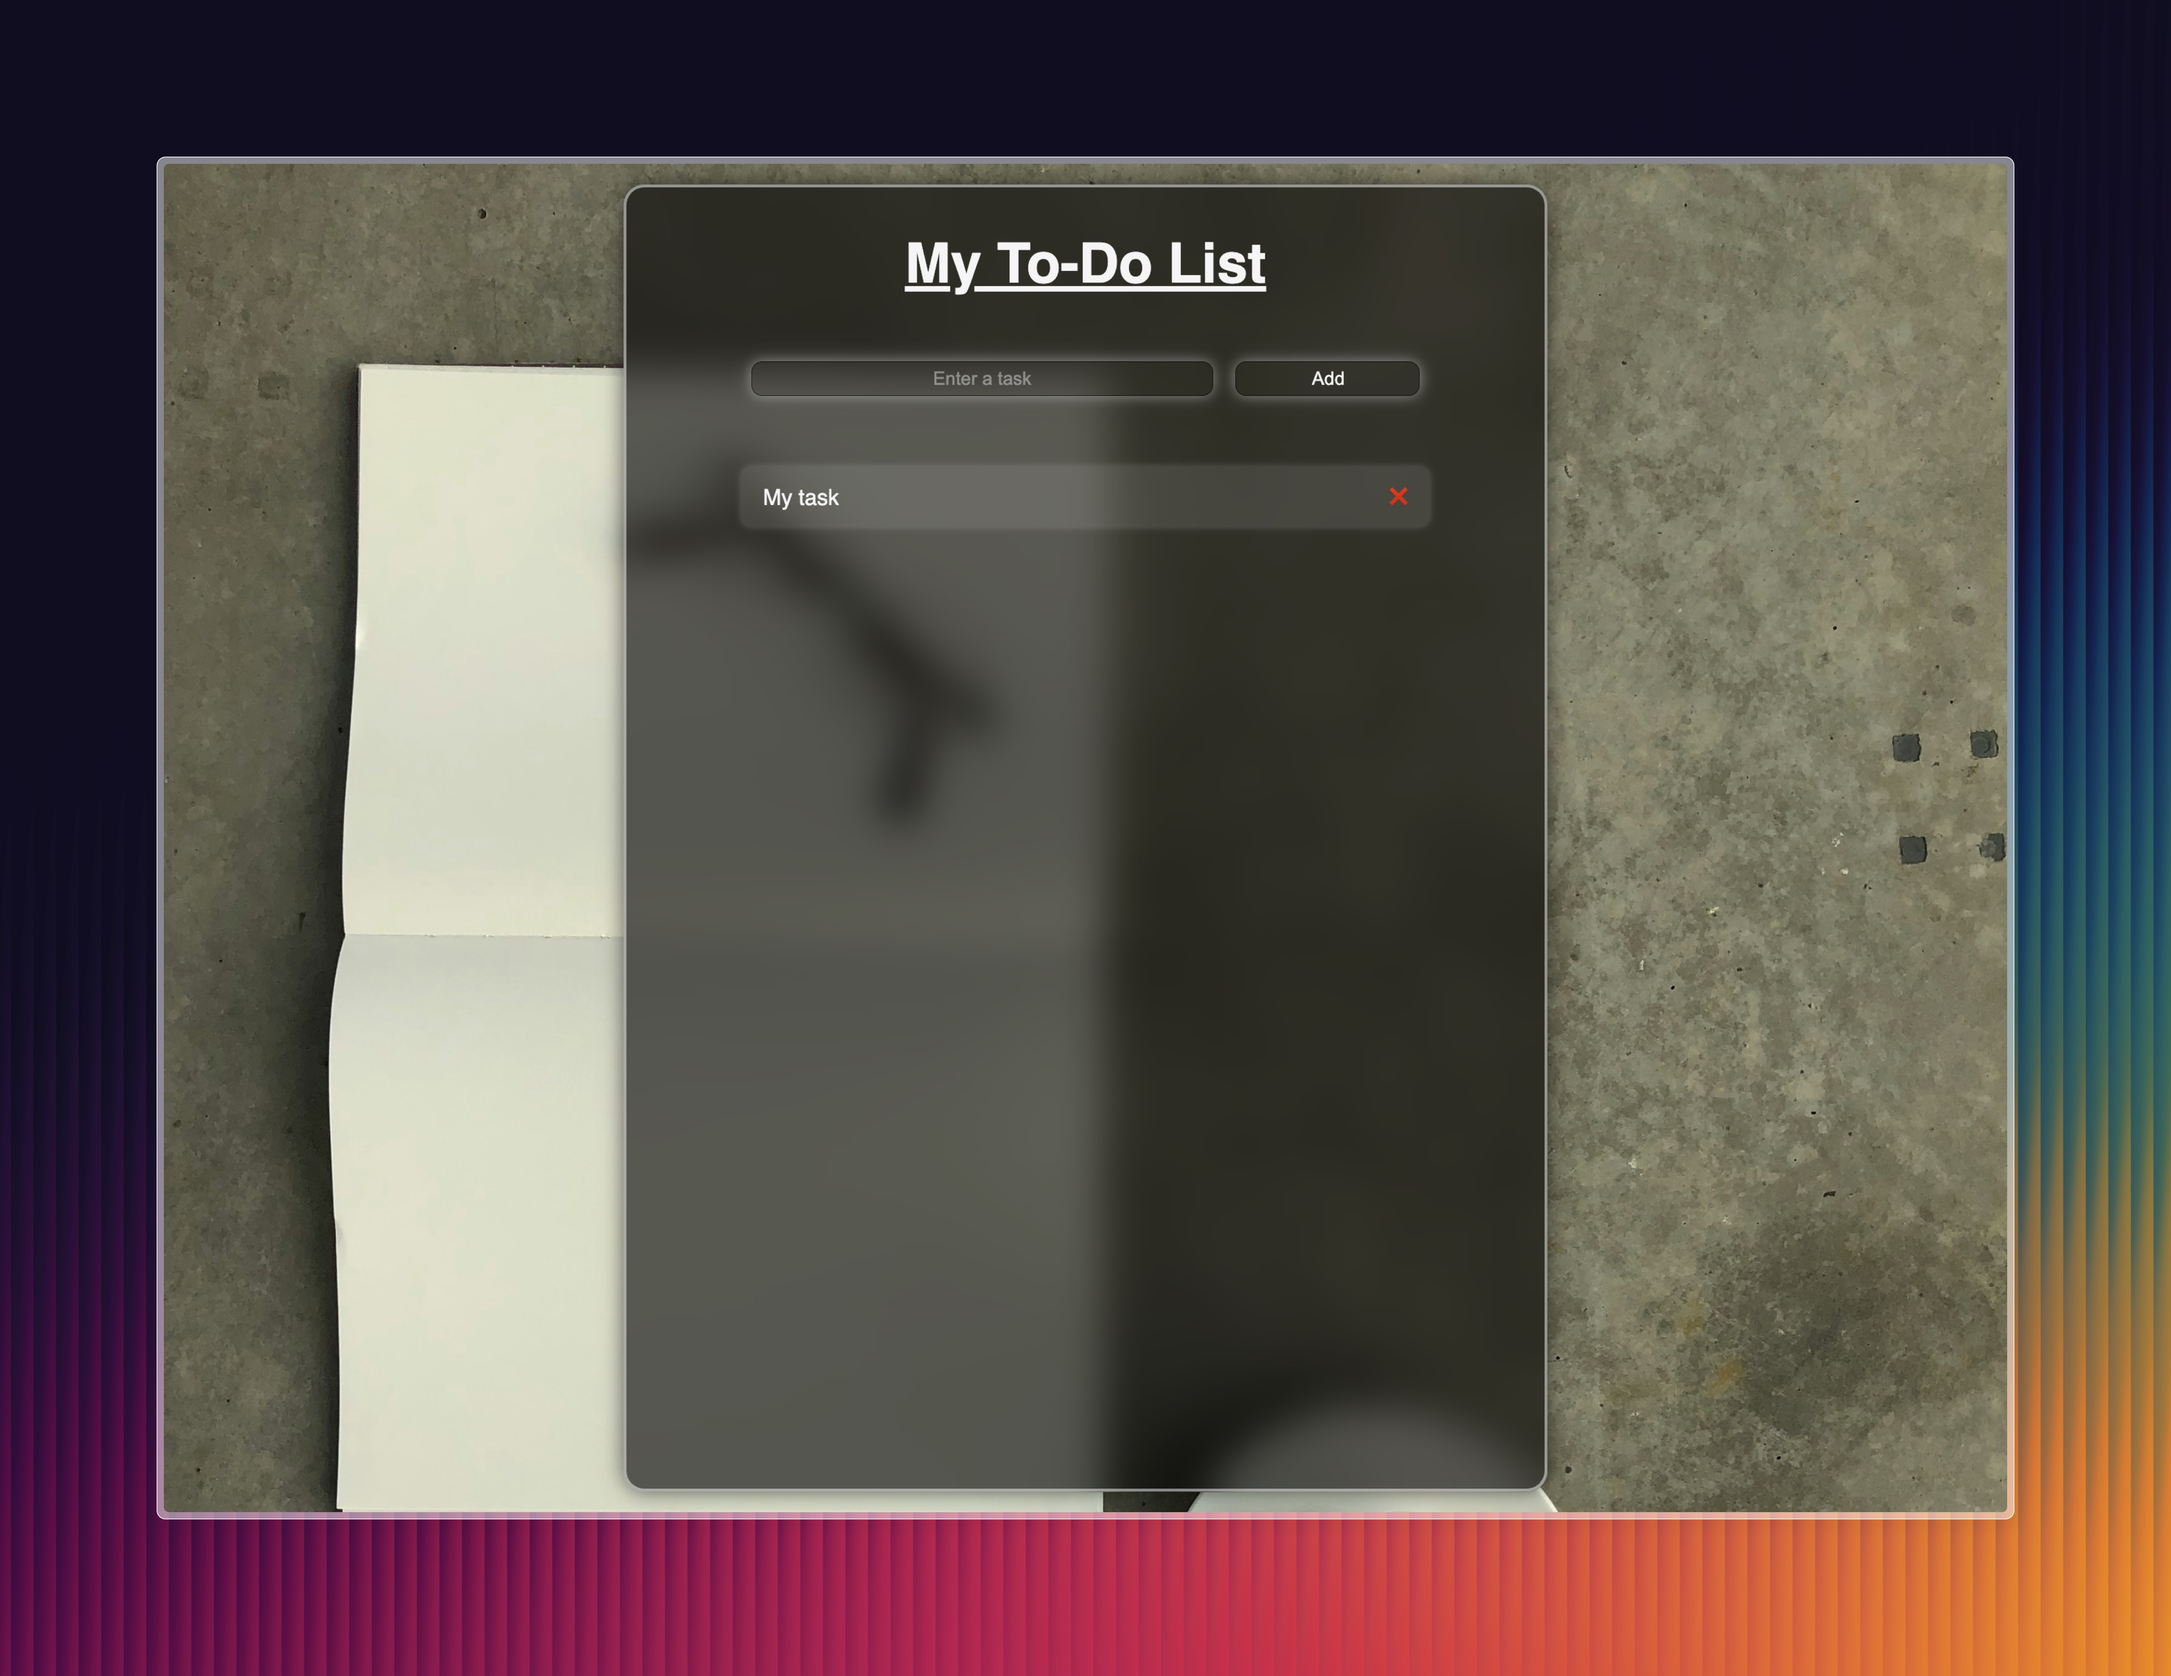
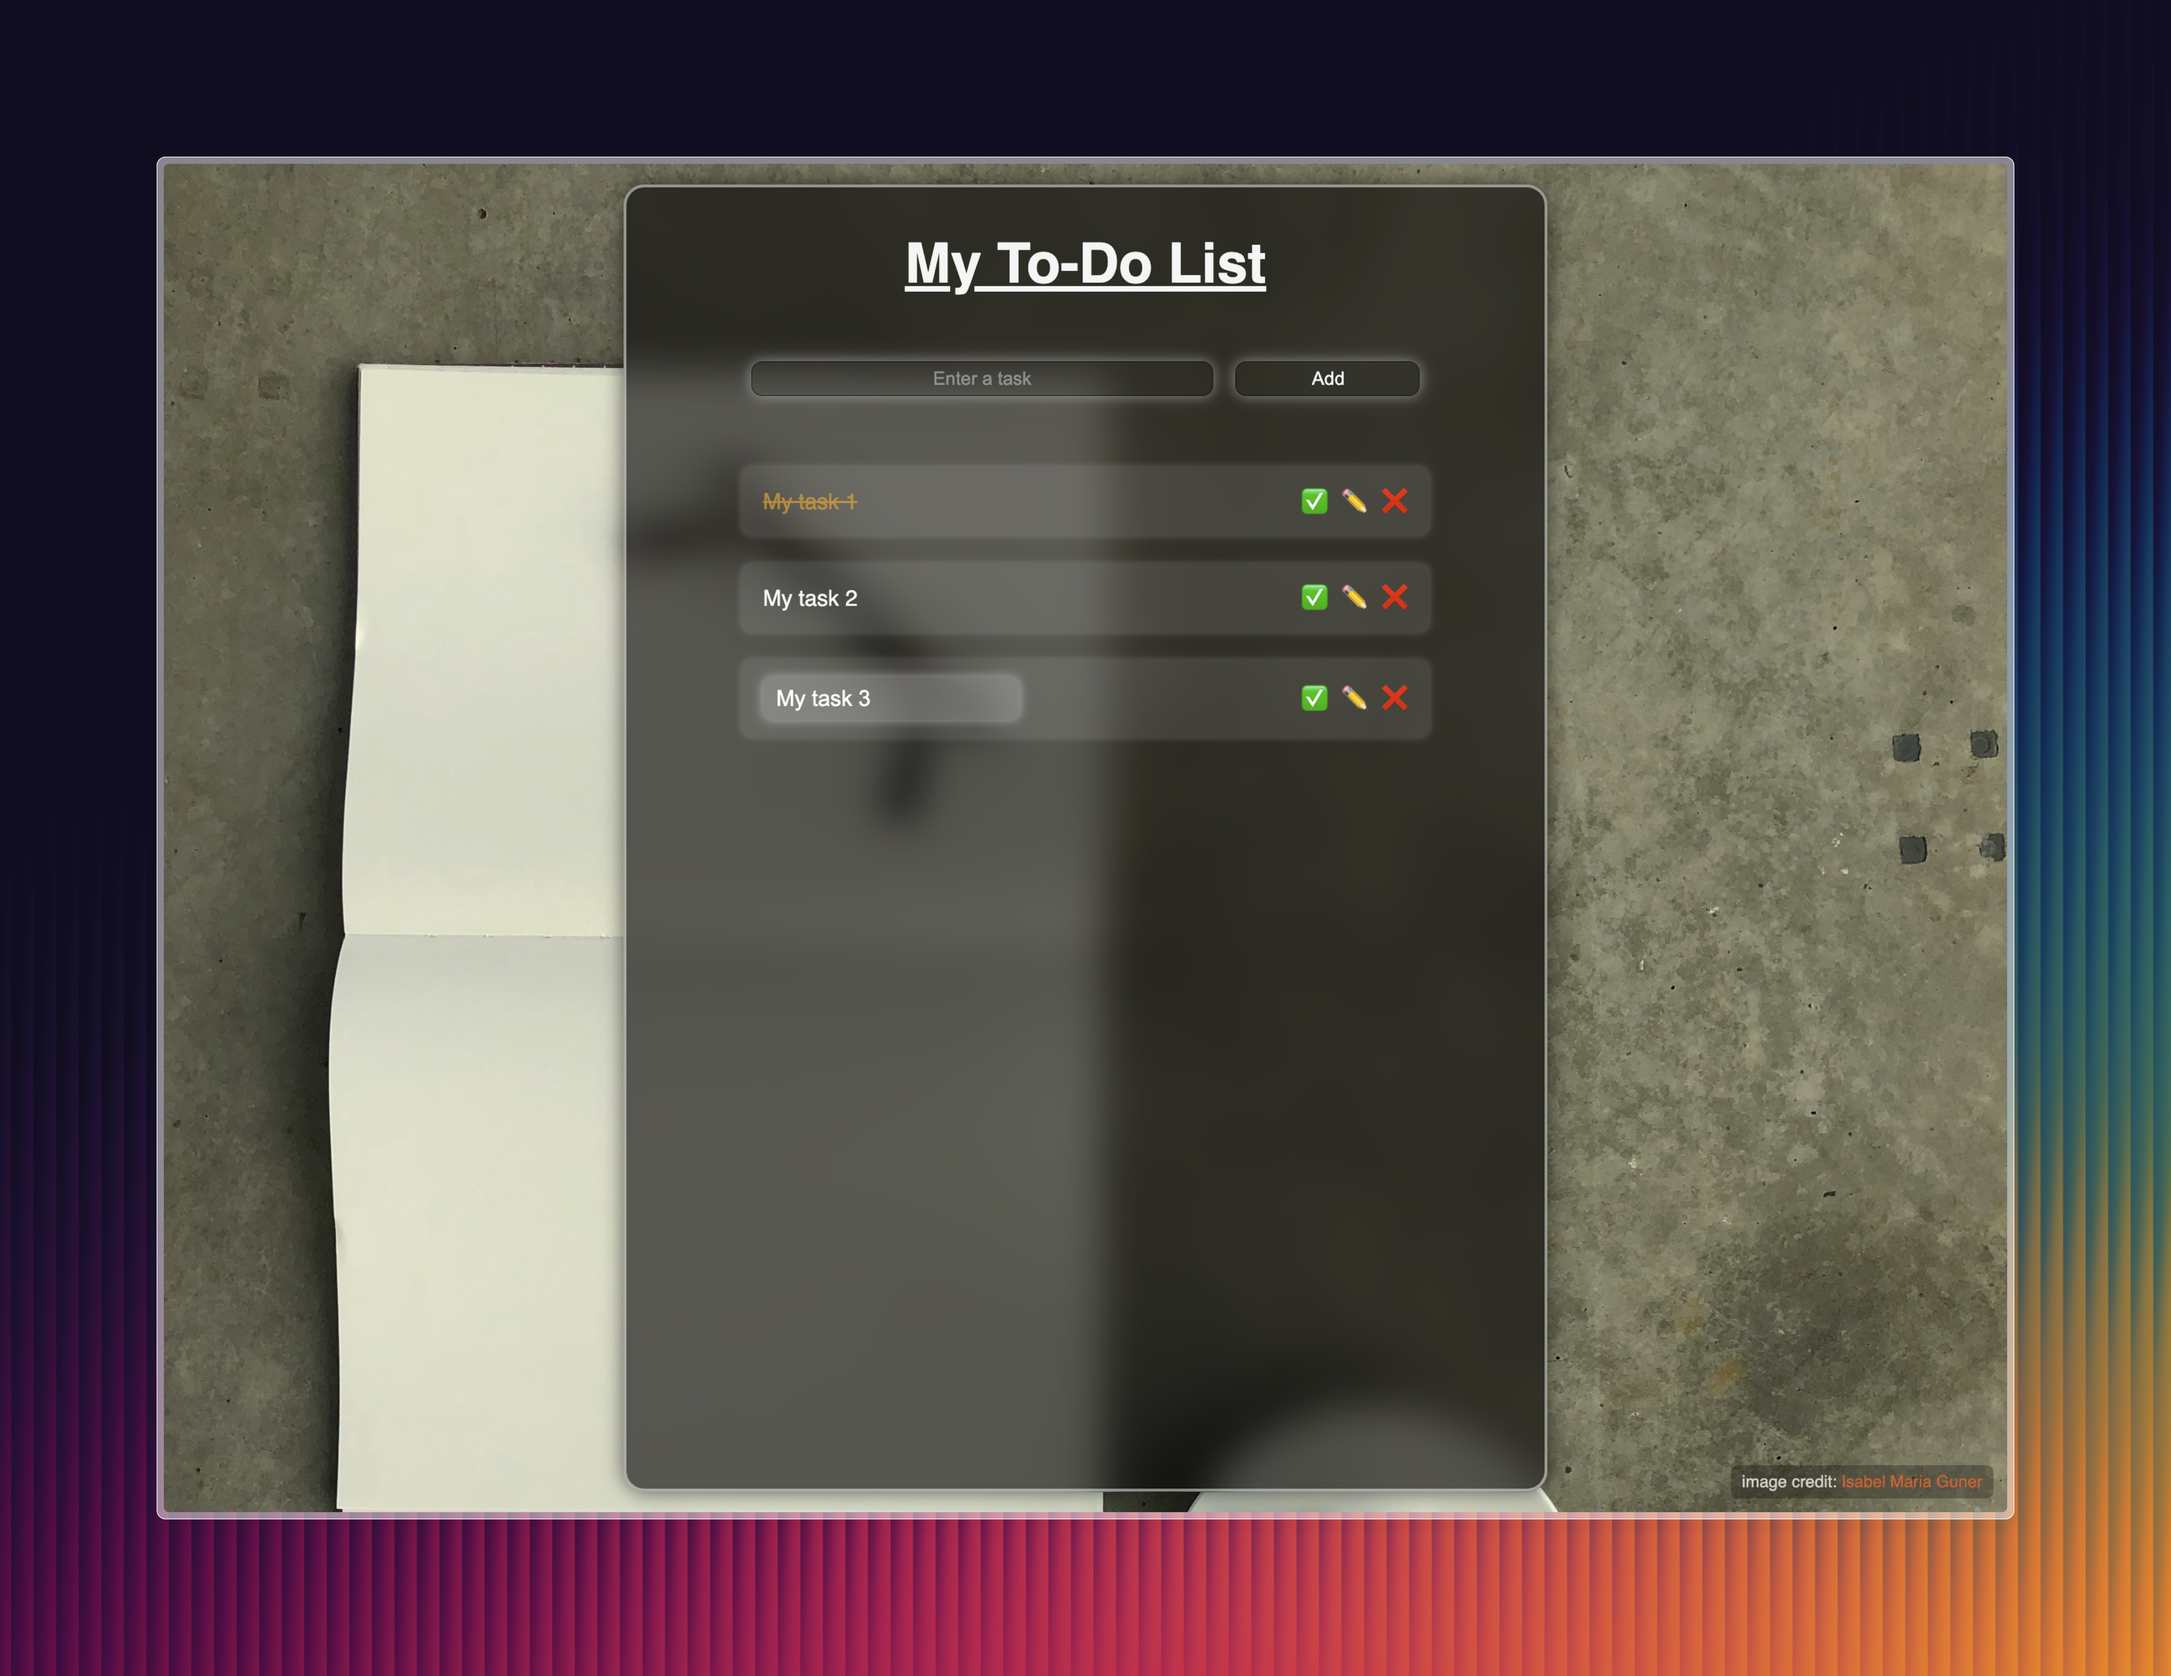
edit and done buttons added. screenshot updated.

diff --git a/main.js b/main.js
@@ -10,41 +10,85 @@ button.addEventListener("click", function () {
   } else {
     const taskItem = document.createElement("div");
     taskItem.classList.add("task-item");
+
+    const taskBtns = document.createElement("div");
+    taskBtns.classList.add("task-buttons");
+
     const taskTextEl = document.createElement("span");
     taskTextEl.textContent = taskText;
     taskItem.appendChild(taskTextEl);
     taskList.appendChild(taskItem);
+    taskItem.appendChild(taskBtns);
     input.value = "";
 
+    // Task item done button
+    const doneBtn = document.createElement("button");
+
+    doneBtn.addEventListener("click", function() {
+      taskTextEl.classList.toggle("completed");
+    });
+
+    doneBtn.classList.add("done-button");
+    doneBtn.textContent = "✅";
+    taskBtns.appendChild(doneBtn);
+
+    // Task item edit button
+    const editBtn = document.createElement("button");
+
+    editBtn.addEventListener("click", function() {
+      const currentText = taskTextEl.textContent;
+      const inputField = document.createElement("input");
+      inputField.type = "text";
+      inputField.value = currentText;
+      inputField.classList.add("edit-input")
+
+      taskItem.replaceChild(inputField, taskTextEl);
+      inputField.focus();
+
+      inputField.addEventListener("blur", function() {
+        taskTextEl.textContent = inputField.value.trim() || currentText;
+        taskItem.replaceChild(taskTextEl, inputField);
+      })
+
+      inputField.addEventListener("keydown", function(event) {
+        if(event.key === "Enter") {
+          inputField.blur()
+        }
+      })
+    });
+
+    editBtn.classList.add("edit-button");
+    editBtn.textContent = "✏";
+    taskBtns.appendChild(editBtn);
+
+    // Task item delete button
     const delBtn = document.createElement("button");
 
     delBtn.addEventListener("click", function () {
-      const taskToDelete = delBtn.parentElement;
-      taskToDelete.remove();
+      taskItem.remove();
     });
 
     delBtn.classList.add("delete-button");
     delBtn.textContent = "❌";
-    taskItem.appendChild(delBtn);
+    taskBtns.appendChild(delBtn);
 
     // Clear stored input after successful task creation
-    sessionStorage.removeItem("taskInputValue")
+    sessionStorage.removeItem("taskInputValue");
   }
 });
 
-input.addEventListener("keydown", function(event) {
-    if(event.key === "Enter") {
-        button.click();
-    }
-})
+input.addEventListener("keydown", function (event) {
+  if (event.key === "Enter") {
+    button.click();
+  }
+});
 
-document.addEventListener("DOMContentLoaded", function() {
-    if (sessionStorage.getItem("taskInputValue")) {
-        input.value = sessionStorage.getItem("taskInputValue");
-    }
+document.addEventListener("DOMContentLoaded", function () {
+  if (sessionStorage.getItem("taskInputValue")) {
+    input.value = sessionStorage.getItem("taskInputValue");
+  }
 
-    input.addEventListener("input", function() {
-        sessionStorage.setItem("taskInputValue", input.value);
-    })
-})
-
+  input.addEventListener("input", function () {
+    sessionStorage.setItem("taskInputValue", input.value);
+  });
+});

diff --git a/style.css b/style.css
@@ -74,11 +74,44 @@ h1 {
   margin-top: 3rem;
 }
 
-.delete-button {
+.task-buttons {
+  display: flex;
+  flex-direction: row;
+  gap: 10px;
+}
+
+.delete-button,
+.done-button,
+.edit-button {
   background-color: transparent;
   border: none;
   cursor: pointer;
+  font-size: 1.2rem;
 }
+
+.completed {
+  text-decoration: line-through;
+  color: orange;
+  opacity: 0.6;
+  transition: all 0.3s ease;
+}
+
+.edit-input {
+  background-color: rgba(255, 255, 255, 0.1);
+  border: none;
+  border-radius: 6px;
+  padding: 0.4rem 0.6rem;
+  color: white;
+  font-size: 1rem;
+  outline: none;
+  box-shadow: 0 0 5px rgba(255, 255, 255, 0.3);
+}
+
+.edit-input:focus {
+  background-color: rgba(255, 255, 255, 0.2);
+  box-shadow: 0 0 8px rgba(255, 255, 255, 0.5);
+}
+
 
 #addBtn:hover {
   background-color: rgba(255, 255, 255, 0.5);
